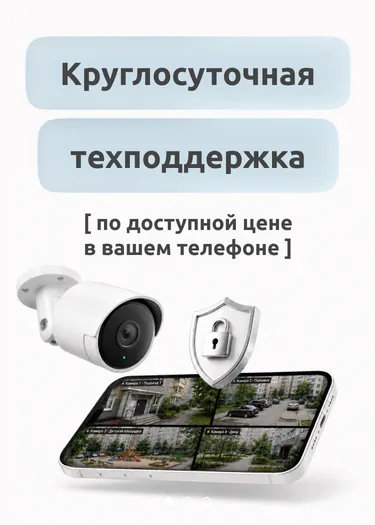
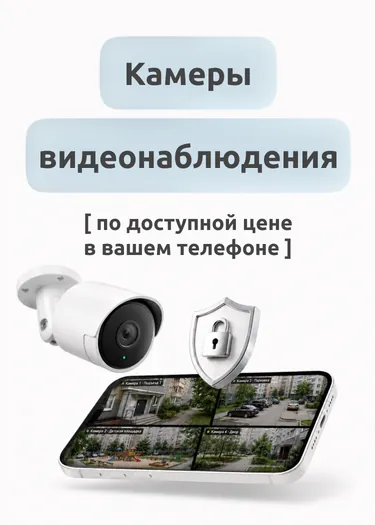
tariffs

Changed region(s): [[0.0587, 0.061, 0.9387, 0.3657]]

diff --git a/src/data/television-tariffs.js b/src/data/television-tariffs.js
@@ -1,43 +1,83 @@
-const comboLightFeatures = (streamingText) => [
-  { icon: 'tv', text: '345 каналов' },
-  { icon: 'ruble', text: '550 ₽ / мес.' },
-  { icon: 'streem', text: streamingText },
-];
-
 export const televisionTariffs = [
   {
     title: 'Комбо Лайт',
-    features: comboLightFeatures('MEDIATEKA'),
+    features: [
+      { icon: 'tv', text: '197 каналов' },
+      { icon: 'ruble', text: '200 ₽/мес' },
+      { icon: 'streem', text: '+' },
+    ],
     buttonText: 'Подключить',
   },
   {
-    title: 'Комбо Лайт',
-    features: comboLightFeatures('MEDIATEKA'),
+    title: 'Комбо Хит',
+    features: [
+      { icon: 'tv', text: '274 канала' },
+      { icon: 'ruble', text: '300 ₽/мес' },
+      { icon: 'streem', text: '+' },
+    ],
     buttonText: 'Подключить',
   },
   {
-    title: 'Комбо Лайт',
-    features: comboLightFeatures('PREMIER, MEDIATEKA, START'),
+    title: 'Комбо Микс',
+    features: [
+      { icon: 'tv', text: '361 канал' },
+      { icon: 'ruble', text: '420 ₽/мес' },
+      { icon: 'streem', text: 'AMEDIATEKA' },
+    ],
     buttonText: 'Подключить',
   },
   {
-    title: 'Комбо Лайт',
-    features: comboLightFeatures('MEDIATEKA'),
+    title: 'Комбо Микс',
+    features: [
+      { icon: 'tv', text: '297 каналов' },
+      { icon: 'ruble', text: '430 ₽/мес' },
+      { icon: 'streem', text: 'START' },
+    ],
     buttonText: 'Подключить',
   },
   {
-    title: 'Комбо Лайт',
-    features: comboLightFeatures('MEDIATEKA'),
+    title: 'Комбо Микс',
+    features: [
+      { icon: 'tv', text: '297 каналов' },
+      { icon: 'ruble', text: '430 ₽/мес' },
+      { icon: 'streem', text: 'PREMIER' },
+    ],
     buttonText: 'Подключить',
   },
   {
-    title: 'Комбо Лайт',
-    features: comboLightFeatures('PREMIER, MEDIATEKA, START'),
+    title: 'Комбо Плюс',
+    features: [
+      { icon: 'tv', text: '361 канал' },
+      { icon: 'ruble', text: '530 ₽/мес' },
+      { icon: 'streem', text: 'AMEDIATEKA' },
+    ],
     buttonText: 'Подключить',
   },
   {
-    title: 'Комбо Лайт',
-    features: comboLightFeatures('MEDIATEKA'),
+    title: 'Комбо Плюс',
+    features: [
+      { icon: 'tv', text: '361 канал' },
+      { icon: 'ruble', text: '530 ₽/мес' },
+      { icon: 'streem', text: 'START' },
+    ],
+    buttonText: 'Подключить',
+  },
+  {
+    title: 'Комбо Макс',
+    features: [
+      { icon: 'tv', text: '393 канала' },
+      { icon: 'ruble', text: '850 ₽/мес' },
+      { icon: 'streem', text: 'PREMIER, AMEDIATEKA' },
+    ],
+    buttonText: 'Подключить',
+  },
+  {
+    title: 'Эксклюзив',
+    features: [
+      { icon: 'tv', text: '386 каналов' },
+      { icon: 'ruble', text: '1 100 ₽/мес' },
+      { icon: 'streem', text: 'PREMIER, AMEDIATEKA, START' },
+    ],
     buttonText: 'Подключить',
   },
 ];

diff --git a/src/data/private-internet-tariffs.js b/src/data/private-internet-tariffs.js
@@ -3,7 +3,7 @@ export const privateInternetTariffs = [
     value: 'private-internet-50',
     title: 'Интернет 50',
     features: [
-      { icon: 'internet', text: '50 Мбит/с' },
+      { icon: 'internet', text: 'до 50 Мбит/с' },
       { icon: 'ruble', text: '1 050 ₽/мес' },
     ],
     description: 'Специальный тариф для новых абонентов - сниженная оплата при первом подключении',
@@ -13,8 +13,8 @@ export const privateInternetTariffs = [
     value: 'private-internet-100',
     title: 'Интернет 100',
     features: [
-      { icon: 'internet', text: '100 Мбит/с' },
-      { icon: 'tv', text: '1 100 ₽/мес' },
+      { icon: 'internet', text: 'до 100 Мбит/с' },
+      { icon: 'ruble', text: '1 100 ₽/мес' },
     ],
     description: 'Оптимально для удаленной работы, онлайн-обучения и видеонаблюдения',
     buttonText: 'Подключить за 4 000 ₽',
@@ -23,18 +23,18 @@ export const privateInternetTariffs = [
     value: 'private-internet-200',
     title: 'Интернет 200',
     features: [
-      { icon: 'internet', text: '200 Мбит/с' },
-      { icon: 'tv', text: '1 400 ₽/мес' },
+      { icon: 'internet', text: 'до 200 Мбит/с' },
+      { icon: 'ruble', text: '1 400 ₽/мес' },
     ],
-    description: 'Для большого дома и мгновенной загрузки файлов,  4К-стримминг',
+    description: 'Для большого дома и мгновенной загрузки файлов, 4K-стриминг',
     buttonText: 'Подключить за 4 000 ₽',
   },
   {
     value: 'private-internet-300',
     title: 'Интернет 300',
     features: [
-      { icon: 'internet', text: '300 Мбит/с' },
-      { icon: 'tv', text: '1 600 ₽/мес' },
+      { icon: 'internet', text: 'до 300 Мбит/с' },
+      { icon: 'ruble', text: '1 600 ₽/мес' },
     ],
     description: 'Максимальная скорость для гейминга и потокового видео',
     buttonText: 'Подключить за 4 000 ₽',

diff --git a/src/data/apartment-internet-tariffs.js b/src/data/apartment-internet-tariffs.js
@@ -1,0 +1,42 @@
+export const apartmentInternetTariffs = [
+  {
+    value: 'apartments-internet-100',
+    title: 'Интернет 100',
+    features: [
+      { icon: 'internet', text: 'до 100 Мбит/с' },
+      { icon: 'ruble', text: '800 ₽/мес' },
+    ],
+    description: 'Для повседневного использования, учёбы, работы и просмотра видео',
+    buttonText: 'Подключить за 0 ₽',
+  },
+  {
+    value: 'apartments-internet-200',
+    title: 'Интернет 200',
+    features: [
+      { icon: 'internet', text: 'до 200 Мбит/с' },
+      { icon: 'ruble', text: '1 050 ₽/мес' },
+    ],
+    description: 'Для семьи с активными пользователями, онлайн-работы и видео 4K',
+    buttonText: 'Подключить за 0 ₽',
+  },
+  {
+    value: 'apartments-internet-300',
+    title: 'Интернет 300',
+    features: [
+      { icon: 'internet', text: 'до 300 Мбит/с' },
+      { icon: 'ruble', text: '1 200 ₽/мес' },
+    ],
+    description: 'Для стриминга, онлайн-игр и высокой нагрузки без ограничений',
+    buttonText: 'Подключить за 0 ₽',
+  },
+  {
+    value: 'apartments-internet-500',
+    title: 'Интернет 500',
+    features: [
+      { icon: 'internet', text: 'до 500 Мбит/с' },
+      { icon: 'ruble', text: '1 500 ₽/мес' },
+    ],
+    description: 'Макс. скорость загрузки для требовательных пользователей и умного дома',
+    buttonText: 'Подключить за 0 ₽',
+  },
+];

diff --git a/vite.config.js b/vite.config.js
@@ -11,6 +11,7 @@ import {
 import { televisionTariffs } from './src/data/television-tariffs.js';
 import { homeVideoSurveillanceTariffs } from './src/data/home-video-surveillance-tariffs.js';
 import { instructionSections } from './src/data/instructions.js';
+import { apartmentInternetTariffs } from './src/data/apartment-internet-tariffs.js';
 import { privateInternetTariffs } from './src/data/private-internet-tariffs.js';
 import {
   mainOfficeAddress,
@@ -246,6 +247,7 @@ function nunjucksHtml() {
   env.addGlobal('socialLinks', socialLinks);
   env.addGlobal('contactSections', contactSections);
   env.addGlobal('instructionSections', instructionSections);
+  env.addGlobal('apartmentInternetTariffs', apartmentInternetTariffs);
   env.addGlobal('privateInternetTariffs', privateInternetTariffs);
   env.addGlobal('homeVideoSurveillanceTariffs', homeVideoSurveillanceTariffs);
   env.addGlobal('televisionTariffs', televisionTariffs);

diff --git a/src/data/callback-form-fields.js b/src/data/callback-form-fields.js
@@ -1,20 +1,11 @@
+import { apartmentInternetTariffs } from './apartment-internet-tariffs.js';
 import { privateInternetTariffs } from './private-internet-tariffs.js';
 
-function toTariffOption(title, prefix) {
-  const speed = title.match(/\d+/)?.[0] ?? title;
-
-  return {
-    value: `${prefix}-internet-${speed}`,
-    label: title,
-  };
-}
-
 const callbackTariffOptionsByType = {
-  apartments: [
-    toTariffOption('Интернет 50', 'apartments'),
-    toTariffOption('Интернет 100', 'apartments'),
-    toTariffOption('Интернет 200', 'apartments'),
-  ],
+  apartments: apartmentInternetTariffs.map(({ value, title }) => ({
+    value,
+    label: title,
+  })),
   'private-sector': privateInternetTariffs.map(({ value, title }) => ({
     value,
     label: title,

diff --git a/src/pages/apartment-internet.html b/src/pages/apartment-internet.html
@@ -1,0 +1,17 @@
+{% extends "layouts/default.njk" %}
+
+{% set title = "Интернет в многоквартирный дом — Большие Связи" %}
+{% set description = "Тарифы интернета для многоквартирных домов в г. Черемхово" %}
+{% set tariffPage = {
+  title: "Тарифы для многоквартирных домов / г. Черемхово",
+  breadcrumbs: [
+    { text: "Тарифы и услуги" },
+    { text: "Интернет для города" }
+  ],
+  items: apartmentInternetTariffs,
+  tariffType: "apartments"
+} %}
+
+{% block content %}
+  {% include "pages/tariffs/tariffs.njk" %}
+{% endblock %}

diff --git a/src/data/nav.js b/src/data/nav.js
@@ -16,11 +16,10 @@ export const headerNavItems = [
     id: 'tariffs',
     label: 'Тарифы и услуги',
     items: [
-      { text: 'Интернет в много-квартирный дом', href: notFoundPageUrl },
+      { text: 'Интернет в много-квартирный дом', href: '/apartment-internet.html' },
       { text: 'Интернет для частного сектора', href: '/private-internet.html' },
       { text: 'Видеонаблюдение', href: '/home-video-surveillance.html' },
       { text: 'Цифровое ТВ', href: '/television.html' },
-      { text: 'Радио', href: notFoundPageUrl },
     ],
   },
 ];

diff --git a/src/data/home-video-surveillance-tariffs.js b/src/data/home-video-surveillance-tariffs.js
@@ -1,7 +1,7 @@
 export const homeVideoSurveillanceTariffs = [
   {
     title: '1 камера',
-    description: 'При тарифе от 100 Мбит/сек подключение бесплатное',
+    description: 'При тарифе от 100 мбит/сек подключение бесплатное',
     buttonText: 'Подключить бесплатно*',
   },
   {

diff --git a/src/templates/shared/tariff-page.scss b/src/templates/shared/tariff-page.scss
@@ -1,5 +1,5 @@
 .tariff-page {
-  padding-block: 50px;
+  padding-block: 30px;
 
   @media (max-width: 1024px) {
     padding-block: 36px;
